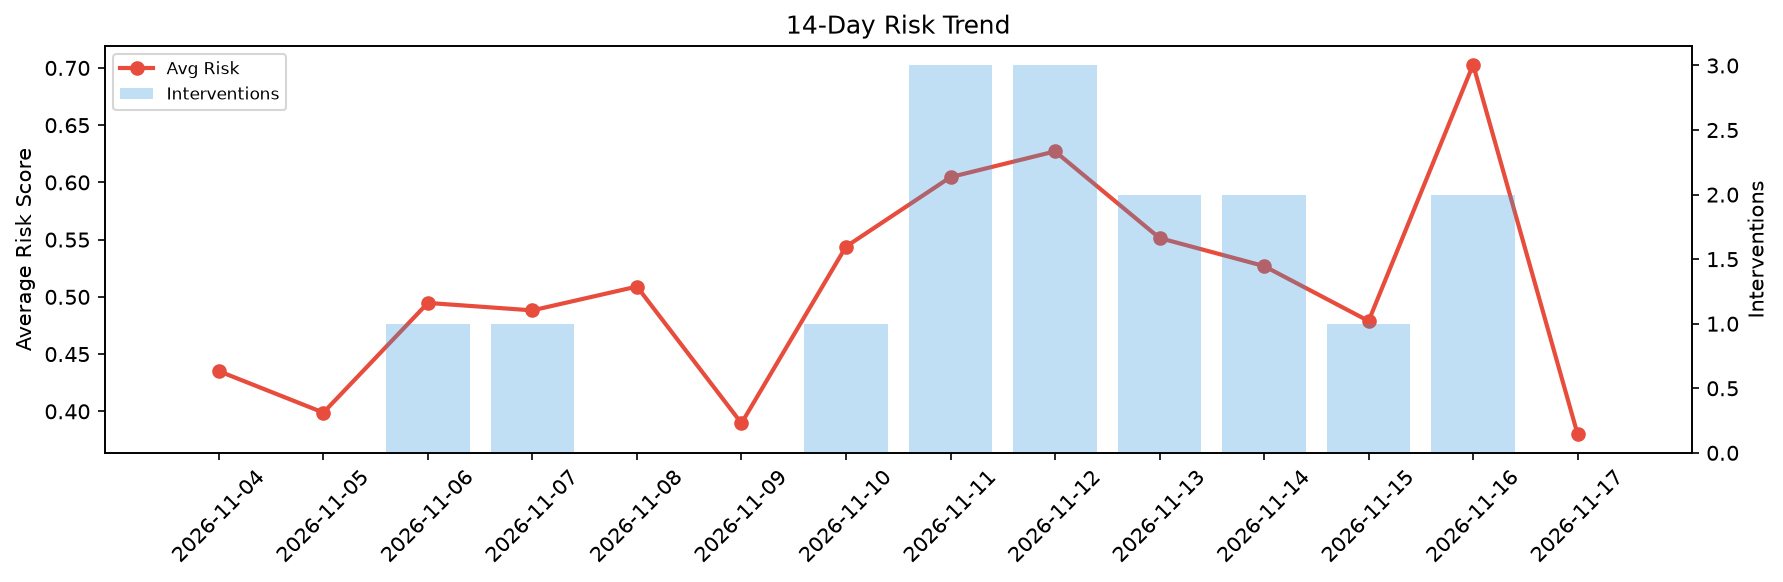
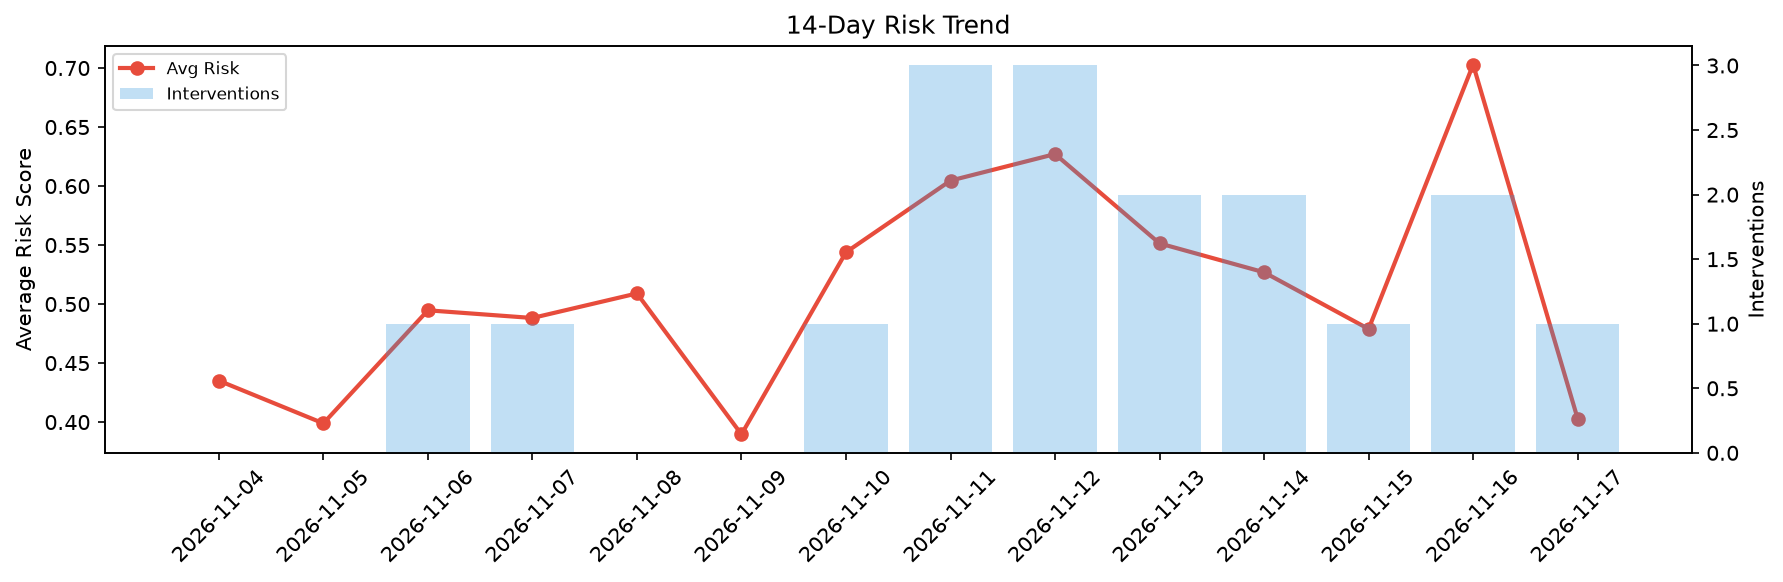
agent-improvement: daily cycle 2026-11-17T10:40

diff --git a/logs/2026-11-17.md b/logs/2026-11-17.md
@@ -1,6 +1,6 @@
 # Agent Improvement Report — 2026-11-17
 
-**Cycle ID:** `06b5c443` | **Avg Risk:** 0.3799 | **Interventions:** 0/4
+**Cycle ID:** `b9c21efd` | **Avg Risk:** 0.4029 | **Interventions:** 1/4
 
 ![Dashboard](2026-11-17_dashboard.png)
 
@@ -10,18 +10,18 @@
 
 | Domain | Risk Score | Decision | Alerts |
 |--------|-----------|----------|--------|
-| code_review | 0.362 | monitor | complexity |
-| incident_response | 0.1487 | monitor | none |
-| data_pipeline | 0.5421 | monitor | volume_anomaly |
-| deployment | 0.4668 | monitor | rollback_rate |
+| code_review | 0.592 | monitor | coverage |
+| incident_response | 0.3007 | monitor | mttr |
+| data_pipeline | 0.1062 | monitor | none |
+| deployment | 0.6125 | intervene | canary_error, latency_p99 |
 
 ## Delta vs Yesterday
 
 | Domain | Today | Yesterday | Change |
 |--------|-------|-----------|--------|
-| code_review | 0.362 | 0.8628 | 📉 -58.0% |
-| incident_response | 0.1487 | 0.5608 | 📉 -73.5% |
-| data_pipeline | 0.5421 | 0.857 | 📉 -36.7% |
-| deployment | 0.4668 | 0.5309 | 📉 -12.1% |
+| code_review | 0.592 | 0.8628 | 📉 -31.4% |
+| incident_response | 0.3007 | 0.5608 | 📉 -46.4% |
+| data_pipeline | 0.1062 | 0.857 | 📉 -87.6% |
+| deployment | 0.6125 | 0.5309 | 📈 15.4% |
 
 **Refinement:** `{'adjustment': 'tighten_thresholds', 'trend': 'degrading', 'window': 4}`
